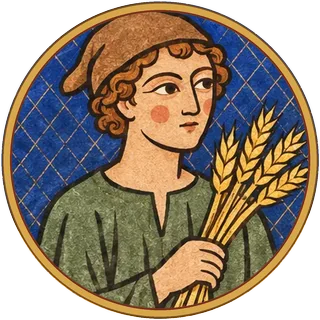
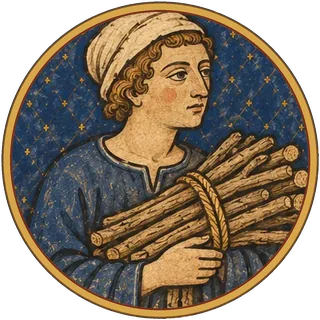
Портреты: новые крестьяне и горожане по образцу ранней серии; убраны румяные солдаты
Крестьяне и горожане перерисованы в манере ранних миниатюр (тонкий контур, темпера) вместо
мультяшной партии; седой с книгой и горожанка с сукном убраны. Пять портретов вооружённых людей
с румяными щеками удалены: стража, рыцари, отряды и гонцы — на портретах стражника и кастеляна,
гонцы — горожанин в дорожном плаще, узник — путник.

Claude-Session: https://claude.ai/code/session_01MqgnySWfdMW4H8wgNmTMfN

diff --git a/js/travelers.js b/js/travelers.js
@@ -16,27 +16,27 @@ const TRAVELER_KINDS = {
     greeting: 'Здравствуй, добрый человек. Товар везём — смотри, если есть деньги. Охрана у нас крепкая, так что без глупостей.' },
   friars: { name: 'Нищенствующие братья', glyph: 'f', color: '#a89070', count: 3, pace: 1.1, role: 'priest', title: 'Брат-францисканец', portrait: 'monk',
     greeting: 'Мир и благо! Мы братья святого Франциска — идём босыми от города к городу, проповедуем и просим хлеба.' },
-  messenger: { name: 'Гонец', glyph: 'g', color: '#70b0f0', count: 2, pace: 0.45, role: 'guard', title: 'Гонец', portrait: 'armed_sword',
+  messenger: { name: 'Гонец', glyph: 'g', color: '#70b0f0', count: 2, pace: 0.45, role: 'guard', title: 'Гонец', portrait: 'town_m3',
     greeting: 'С дороги! …А, путник. Некогда мне, везу письма. Если коротко — спрашивай.' },
-  soldiers: { name: 'Имперский отряд', glyph: 's', color: '#e0c050', count: 2, pace: 1.0, role: 'knight', title: 'Сержант', portraits: ['armed_vet', 'armed_lion'],
+  soldiers: { name: 'Имперский отряд', glyph: 's', color: '#e0c050', count: 2, pace: 1.0, role: 'knight', title: 'Сержант', portraits: ['guard', 'castellan'],
     greeting: 'Стой. Мы люди императора, идём под Парму. Дорогу не загораживай — и иди своей.' },
-  guelfs: { name: 'Отряд гвельфов', glyph: 'W', color: '#60a8ff', count: 3, pace: 1.1, role: 'knight', title: 'Сержант гвельфов', portraits: ['armed_militia', 'armed_xbow'],
+  guelfs: { name: 'Отряд гвельфов', glyph: 'W', color: '#60a8ff', count: 3, pace: 1.1, role: 'knight', title: 'Сержант гвельфов', portraits: ['guard'],
     greeting: 'Стой! Мы люди коммуны, за папу и за свободу. Ты не из имперских? Нет? Тогда проходи с миром.' },
-  ghibs: { name: 'Отряд гибеллинов', glyph: 'W', color: '#f0c040', count: 3, pace: 1.1, role: 'knight', title: 'Сержант гибеллинов', portraits: ['armed_vet', 'armed_lion'],
+  ghibs: { name: 'Отряд гибеллинов', glyph: 'W', color: '#f0c040', count: 3, pace: 1.1, role: 'knight', title: 'Сержант гибеллинов', portraits: ['guard', 'castellan'],
     greeting: 'Именем императора — стой. Кто таков? Не гвельфский лазутчик? Ладно, иди своей дорогой, пока не передумали.' },
   // Юг — Сицилийское королевство: здесь не гвельфы с гибеллинами, а власть короля-императора.
   royal: { name: 'Королевский дозор', glyph: 'k', color: '#e0b060', count: 3, pace: 1.1, role: 'guard', title: 'Сержант юстициария',
-    portraits: ['armed_vet', 'armed_lion'], south: true,
+    portraits: ['guard', 'castellan'], south: true,
     greeting: 'Стой. Королевский дозор юстициария. Кто таков, откуда и куда? Говори прямо — на дорогах королевства нынче порядок.' },
   saracens: { name: 'Сарацинские лучники', glyph: 'a', color: '#d08850', count: 2, pace: 1.2, role: 'guard', title: 'Десятник лучников',
     portrait: 'saracen_guard', south: true,
     greeting: 'Мир тебе. Мы — лучники императора из Лючеры. Идём, куда велено. Дорогу не загораживай.' },
   hospitallers: { name: 'Братья-госпитальеры', glyph: 'h', color: '#f0f0f0', count: 2, pace: 1.1, role: 'knight', title: 'Брат-госпитальер',
-    portrait: 'armed_sword', south: true,
+    portrait: 'guard', south: true,
     greeting: 'Мир тебе. Мы братья ордена святого Иоанна Иерусалимского. Идём к морю — на корабль за море, в Акру.' },
   // Весной и летом 1248-го — крестоносцы из-за Альп идут к кораблям короля Людовика (js/louis.js).
   crusaders: { name: 'Крестоносцы', glyph: '+', color: '#e05050', count: 0, pace: 1.2, role: 'knight', title: 'Рыцарь-крестоносец',
-    portraits: ['armed_lion', 'armed_vet'], greeting: 'Бог в помощь, добрый человек. Мы идём к кораблям короля Франции — за море, на сарацин. Далеко ли до Генуи?' },
+    portraits: ['castellan', 'guard'], greeting: 'Бог в помощь, добрый человек. Мы идём к кораблям короля Франции — за море, на сарацин. Далеко ли до Генуи?' },
   brigands: { name: 'Шайка разбойников', glyph: 'b', color: '#ff5040', count: 4, pace: 1.0, hostile: true },
 };
 

diff --git a/js/windows.js b/js/windows.js
@@ -67,10 +67,10 @@ const cap = s => s ? s[0].toUpperCase() + s.slice(1) : s;
 const PORTRAITS = {
   peasant_m: ['peasant_m1', 'peasant_m2', 'peasant_m3', 'peasant_m4', 'peasant_m5', 'peasant_m6'],
   peasant_f: ['peasant_f1', 'peasant_f2', 'peasant_f3', 'peasant_f4', 'peasant_f5', 'peasant_f6'],
-  town_m: ['town_m1', 'town_m2', 'town_m3', 'town_m4', 'town_m6', 'town_m7', 'town_m8'],
-  town_f: ['town_f1', 'town_f2', 'town_f3', 'town_f4', 'town_f5', 'town_f6', 'town_f7'],
-  merchant_m: ['merchant', 'town_m5'],   // купец в дорожном плаще и с кошелём
-  merchant_f: ['town_f3', 'town_f6'],    // купчиха — в богатом уборе или с сукном
+  town_m: ['town_m1', 'town_m2', 'town_m3', 'town_m4', 'town_m6', 'town_m7'],
+  town_f: ['town_f1', 'town_f2', 'town_f3', 'town_f4', 'town_f5', 'town_f7'],
+  merchant_m: ['merchant', 'town_m5'],   // купец — и старый, в худе и с кошелём
+  merchant_f: ['town_f3'],               // купчиха — в богатом уборе
   noble_m: ['noble_m1', 'noble_m2', 'noble_m3'],
   noble_f: ['noble_f1', 'noble_f2', 'noble_f3', 'noble_f4'],
   pagan_m: ['pagan_m1', 'pagan_m2', 'pagan_m3', 'pagan_m4'],
@@ -103,8 +103,8 @@ function npcPortrait(npc) {
     if (own) return Array.isArray(own) ? own[f ? 1 : 0] : own;
     return pick(f ? PORTRAITS.saracen_f : PORTRAITS.saracen_m);
   }
-  if (r === 'guard') return pick(['guard', 'armed_lion', 'armed_vet', 'armed_militia', 'armed_xbow']);
-  if (r === 'knight') return pick(['armed_sword', 'armed_lion']);
+  if (r === 'guard') return 'guard';
+  if (r === 'knight') return pick(['guard', 'castellan']);
   if (r === 'noble') return npc.name === 'Манфред' ? 'manfred' : npc.name === 'Фридрих II' ? 'frederick' : pick(f ? PORTRAITS.noble_f : PORTRAITS.noble_m);
   if (r === 'smith') return 'smith';
   if (r === 'boatman') return 'boatman';

diff --git a/js/verona.js b/js/verona.js
@@ -70,7 +70,7 @@ function veronaMessenger(city) {
   const v = G.world.villages[0];
   if (!v) return null;
   return { kind: 'npc', role: 'guard', special: 'verona', verona: 'messenger', name: 'Гонец', title: 'Гонец из Вероны', village: v,
-    female: false, glyph: '@', color: '#70b0f0', portrait: 'armed_sword', x: p.x, y: p.y,
+    female: false, glyph: '@', color: '#70b0f0', portrait: 'town_m3', x: p.x, y: p.y,
     greeting: 'Ты ли тот, о ком поют в тавернах? Тогда это тебе. Я скакал четыре дня. Письмо от мессера Альдригетто из Вероны — '
       + 'читай здесь и не показывай никому.' };
 }
@@ -343,7 +343,7 @@ function enterPrison(mode) {
   const village = { city: veronaCity(), npcs: [] };
   const npcAt = (x, y, o) => ({ kind: 'npc', role: 'peasant', x, y, energy: 0, glyph: '@', village, female: false, special: 'verona',
     home: { x, y, w: 1, h: 1, building: -1 }, ...o });
-  w.actors.push(npcAt(sonCell.at[0], sonCell.at[1], { verona: 'son', name: 'Тебальдо', title: 'Узник', color: '#f0e0a0', portrait: 'armed_sword',
+  w.actors.push(npcAt(sonCell.at[0], sonCell.at[1], { verona: 'son', name: 'Тебальдо', title: 'Узник', color: '#f0e0a0', portrait: 'pilgrim',
     greeting: '«Кто здесь?.. Если ты пришёл за мной на виселицу — я пойду сам. Если нет — говори скорее».' }));
   rng.shuffle(cells.filter(c => c !== sonCell)).slice(0, 4).forEach((c, i) => w.actors.push(npcAt(c.at[0], c.at[1],
     { verona: 'prisoner', name: 'Узник', title: 'Узник', color: '#a09080', portrait: i % 2 ? 'peasant_m2' : 'peasant_m3',

diff --git a/tools/portraits.py b/tools/portraits.py
@@ -26,13 +26,12 @@ JOBS = [   # серия XIII века: (лист, {имя: рамка круга
                  'pagan_m4': (132, 664, 468, 1000), 'flamen': (548, 664, 902, 1000), 'pagan_f4': (978, 664, 1314, 1000)}, 4),
     ('23.webp', {'imam': (250, 18, 762, 502), 'innkeeper': (776, 18, 1288, 502), 'hermit': (22, 462, 522, 962),
                  'town_m3': (526, 462, 1012, 962), 'town_m4': (1016, 462, 1512, 962)}, 4),
-    # Крестьяне: юноша со снопом, старик с мотыгой, в соломенной шляпе с хворостом; с яблоками, старуха с кувшином, со снопом.
-    ('26.webp', {'peasant_m4': (16, 28, 480, 512), 'peasant_m5': (484, 28, 952, 508), 'peasant_m6': (956, 28, 1428, 512),
-                 'peasant_f4': (12, 536, 472, 1040), 'peasant_f5': (476, 532, 948, 1040), 'peasant_f6': (952, 536, 1428, 1044)}, 4),
-    # Горожане: с кошелём, со свитком, суконщик в фартуке, седой с книгой; с корзиной, хозяйка с ключами, с сукном, с книгой и кувшином.
-    ('27.webp', {'town_m5': (8, 113, 356, 490), 'town_m6': (364, 113, 716, 490), 'town_m7': (722, 113, 1076, 490),
-                 'town_m8': (1082, 113, 1440, 490), 'town_f4': (8, 580, 358, 1002), 'town_f5': (364, 580, 716, 1002),
-                 'town_f6': (722, 580, 1076, 1002), 'town_f7': (1082, 580, 1440, 1002)}, 4),
+    # Горожане (вторая попытка, по образцу ранней серии): со свитком, с хлебом, суконщик, с кувшином, старый купец с кошелём, с книгой.
+    ('28.webp', {'town_m6': (16, 32, 472, 504), 'town_f4': (488, 32, 948, 504), 'town_m7': (968, 32, 1428, 508),
+                 'town_f5': (8, 532, 468, 1020), 'town_m5': (484, 532, 948, 1022), 'town_f7': (968, 536, 1432, 1024)}, 4),
+    # Крестьяне: с вилами в худе, юноша с хворостом, в соломенной шляпе со снопом; с корзиной яиц, с кувшином, с хлебом.
+    ('29.webp', {'peasant_m5': (8, 14, 476, 500), 'peasant_m4': (488, 14, 956, 500), 'peasant_m6': (968, 12, 1440, 500),
+                 'peasant_f4': (8, 512, 476, 1016), 'peasant_f5': (484, 512, 956, 1016), 'peasant_f6': (964, 512, 1436, 1016)}, 4),
 ]
 # ONLY=26.webp,27.webp — нарезать лишь эти листы (остальные исходники могут лежать в другом месте).
 ONLY = [x for x in os.environ.get('ONLY', '').split(',') if x]

diff --git a/README.md b/README.md
@@ -823,8 +823,9 @@ npx playwright install chromium
 
 Окна — оформленные, поверх карты, и всё в них работает и мышью, и клавишами:
 - **диалог** — портрет жителя (миниатюры в духе готических рукописей XIII века: медальоны на
-  синем и красном фоне с сеткой; для каждой роли; крестьяне — шесть мужских и шесть женских лиц, горожане — по семь,
-  купцы и купчихи — по два),
+  синем и красном фоне с сеткой, тонкий контур, приглушённые темперные цвета; для каждой роли; крестьяне — по шесть мужских
+  и женских лиц, горожане — по шесть,
+  у купцов два лица),
   реплика и варианты ответа кнопками;
 - **котомка** — фигура героя со слотами, мешок, товары, трофеи и поклажа; карточка предмета
   со сравнением с надетым («+2 урон, −1 уклонение»); двойной клик — надеть;
